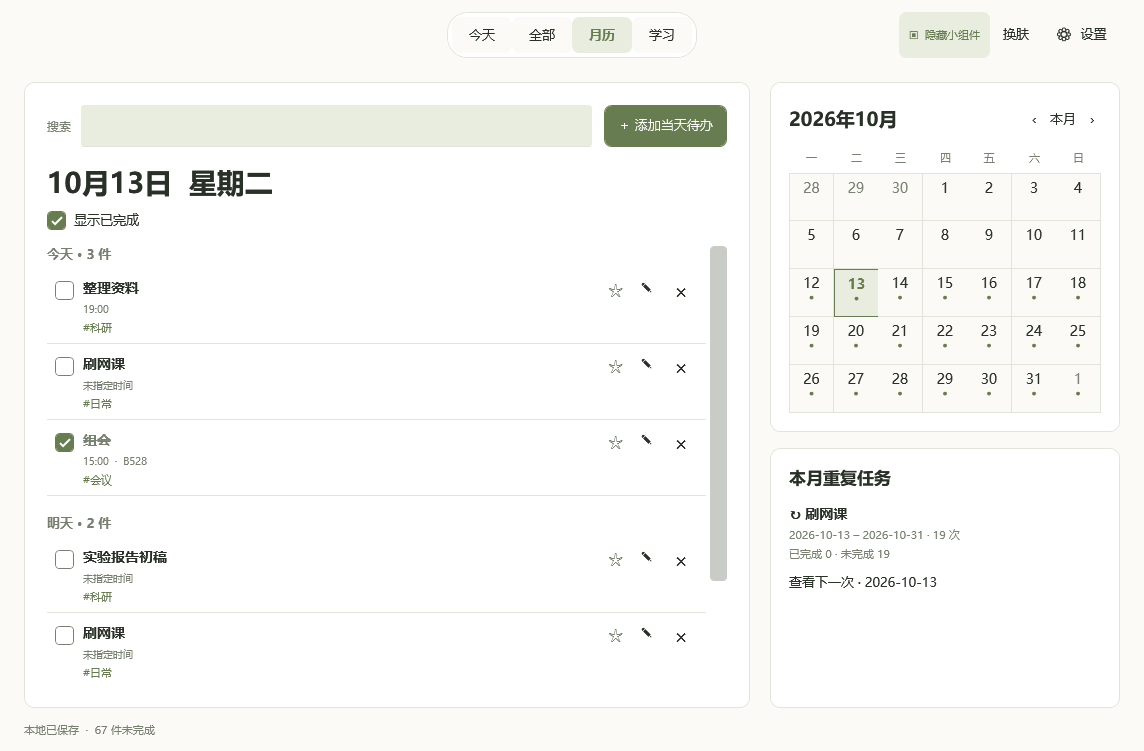
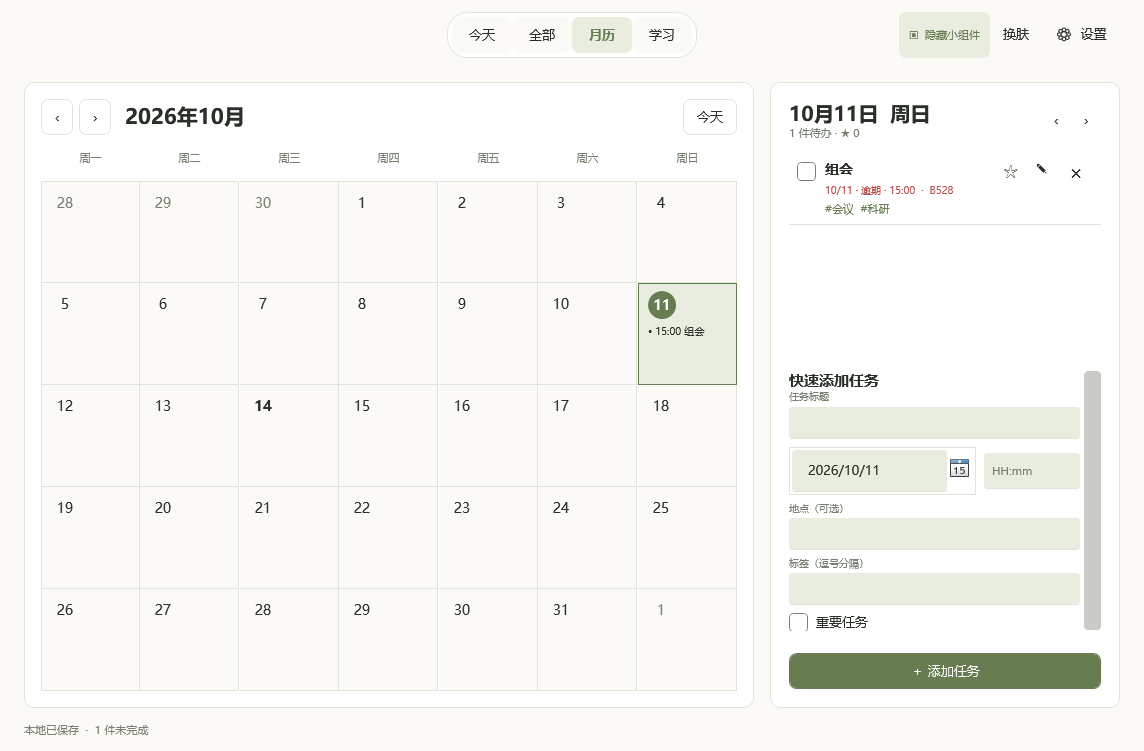
Restore large calendar and add day inspector quick entry in v2.2.1

diff --git a/src/MainWindow.cs b/src/MainWindow.cs
@@ -90,7 +90,7 @@ namespace DeskTodo
             if (page == "学习报告") { if (studyPeriod == null) studyPeriod = new StudyPeriodPanel(app); body.Children.Add(studyPeriod); studyPeriod.Refresh(true); }
             else if (page == "学习统计") { if (studyStats == null) studyStats = new StudyStatsPanel(app); body.Children.Add(studyStats); studyStats.Refresh(true); }
             else if (page == "番茄钟") { if (focusPanel == null) focusPanel = new FocusPanel(app); body.Children.Add(focusPanel); focusPanel.Refresh(true); }
-            else if (page == "月历" || page == "今天") RenderCalendar(); else RenderList();
+            else if (page == "月历") RenderCalendar(); else if (page == "今天") RenderAgenda(); else RenderList();
             int pending = app.Store.State.Items.Count(i => !i.Done);
             status.Text = page == "番茄钟" || page == "学习统计" || page == "学习报告" ? "学习记录保存在本机  ·  暂停时间不计入" : "本地已保存  ·  " + pending + " 件未完成" + (app.CanUndo ? "  ·  可撤销最近一次删除" : "");
         }
@@ -99,6 +99,46 @@ namespace DeskTodo
             var b = Ui.Button(text, action); b.Padding = new Thickness(10, 8, 10, 8); if (width > 0) b.Width = width; b.Margin = new Thickness(5, 0, 0, 0); tools.Children.Add(b);
         }
         void RenderCalendar()
+        {
+            body.ColumnDefinitions.Add(new ColumnDefinition()); body.ColumnDefinitions.Add(new ColumnDefinition { Width = new GridLength(350) });
+            var calendar = new Grid(); calendar.RowDefinitions.Add(new RowDefinition { Height = GridLength.Auto }); calendar.RowDefinitions.Add(new RowDefinition { Height = new GridLength(30) }); calendar.RowDefinitions.Add(new RowDefinition());
+            var monthBar = new DockPanel { Margin = new Thickness(0, 0, 0, 16) }; var today = Ui.Button("今天", () => SelectDay(DateTime.Today)); DockPanel.SetDock(today, Dock.Right); monthBar.Children.Add(today);
+            var monthControls = new StackPanel { Orientation = Orientation.Horizontal }; monthControls.Children.Add(Ui.Button("‹", () => SelectDay(Month.AddMonths(-1)))); var nextMonth = Ui.Button("›", () => SelectDay(Month.AddMonths(1))); nextMonth.Margin = new Thickness(6, 0, 14, 0); monthControls.Children.Add(nextMonth); var month = Ui.Text(Month.ToString("yyyy年M月"), 21, "Text", true); month.VerticalAlignment = VerticalAlignment.Center; monthControls.Children.Add(month); monthBar.Children.Add(monthControls); calendar.Children.Add(monthBar);
+            var weekdays = new UniformGrid { Rows = 1, Columns = 7 }; foreach (string name in new[] { "周一", "周二", "周三", "周四", "周五", "周六", "周日" }) { var label = Ui.Text(name, 11, "Muted"); label.TextAlignment = TextAlignment.Center; weekdays.Children.Add(label); } Grid.SetRow(weekdays, 1); calendar.Children.Add(weekdays);
+            var start = Dates.GridStart(Month); int cells = (int)Math.Ceiling(((Month - start).Days + DateTime.DaysInMonth(Month.Year, Month.Month)) / 7.0) * 7; CalendarCellCount = cells;
+            var days = new UniformGrid { Columns = 7, Rows = cells / 7 }; Grid.SetRow(days, 2); calendar.Children.Add(days);
+            for (int n = 0; n < cells; n++)
+            {
+                var date = start.AddDays(n); bool active = date == selected, current = date.Month == Month.Month;
+                var content = new StackPanel(); var number = Ui.Text(date.Day.ToString(), 14, active ? "AccentInk" : current ? "Text" : "Muted", active || date == DateTime.Today); number.TextAlignment = TextAlignment.Center; number.VerticalAlignment = VerticalAlignment.Center;
+                var badge = new Border { Child = number, Width = 28, Height = 28, CornerRadius = new CornerRadius(14), HorizontalAlignment = HorizontalAlignment.Left, Margin = new Thickness(0, 0, 0, 6) }; if (active) badge.SetResourceReference(Border.BackgroundProperty, "Accent"); content.Children.Add(badge);
+                var items = app.Store.State.Items.Where(i => i.Date == Dates.Key(date)).OrderBy(i => i.Done).ThenByDescending(i => i.Important).ThenBy(i => i.Time ?? "99:99").ToList();
+                foreach (var item in items.Take(2)) { var text = Ui.Text((item.Done ? "✓ " : item.SeriesId != null ? "↻ " : "• ") + (item.Time == null ? "" : item.Time + " ") + item.Title, 10, item.Done || !current ? "Muted" : "Text"); text.TextWrapping = TextWrapping.NoWrap; text.TextTrimming = TextTrimming.CharacterEllipsis; if (item.Done) text.TextDecorations = TextDecorations.Strikethrough; content.Children.Add(text); }
+                if (items.Count > 2) content.Children.Add(Ui.Text("另有 " + (items.Count - 2) + " 件", 9, "Muted"));
+                var day = Ui.Button("", () => SelectDay(date), "CalendarDay"); day.Content = content; day.Padding = new Thickness(9, 7, 4, 4); day.MinHeight = 0; day.BorderThickness = active ? new Thickness(1) : new Thickness(n % 7 == 0 ? 1 : 0, n < 7 ? 1 : 0, 1, 1); day.SetResourceReference(Button.BackgroundProperty, active ? "Soft" : "MainCanvas"); day.SetResourceReference(Button.BorderBrushProperty, active ? "Accent" : "Line"); System.Windows.Automation.AutomationProperties.SetName(day, date.ToString("yyyy年M月d日") + "，" + items.Count + " 件待办"); days.Children.Add(day);
+            }
+            var calendarCard = Ui.Card(calendar, new Thickness(16)); calendarCard.Margin = new Thickness(0, 0, 16, 0); body.Children.Add(calendarCard);
+            var detail = new DockPanel(); var title = new DockPanel { Margin = new Thickness(0, 0, 0, 12) }; var dateControls = new StackPanel { Orientation = Orientation.Horizontal }; dateControls.Children.Add(Ui.Button("‹", () => SelectDay(selected.AddDays(-1)), "Quiet")); dateControls.Children.Add(Ui.Button("›", () => SelectDay(selected.AddDays(1)), "Quiet")); DockPanel.SetDock(dateControls, Dock.Right); title.Children.Add(dateControls); var labelDate = new StackPanel(); labelDate.Children.Add(Ui.Text(selected.ToString("M月d日  ddd"), 20, "Text", true)); var selectedItems = app.Store.State.Items.Where(i => i.Date == Dates.Key(selected)).OrderBy(i => i.Done).ThenByDescending(i => i.Important).ThenBy(i => i.Time ?? "99:99").ToList(); labelDate.Children.Add(Ui.Text(selectedItems.Count + " 件待办 · ★ " + selectedItems.Count(i => i.Important), 11, "Muted")); title.Children.Add(labelDate); DockPanel.SetDock(title, Dock.Top); detail.Children.Add(title);
+            var quickPane = new DockPanel { Margin = new Thickness(0, 16, 0, 0) }; DockPanel.SetDock(quickPane, Dock.Bottom); detail.Children.Add(quickPane); var actions = new StackPanel(); DockPanel.SetDock(actions, Dock.Bottom); quickPane.Children.Add(actions); var quick = new StackPanel(); var quickViewport = Ui.Scroll(quick); quickViewport.MaxHeight = 260; quickPane.Children.Add(quickViewport); quick.Children.Add(Ui.Text("快速添加任务", 15, "Text", true)); quick.Children.Add(Ui.Text("任务标题", 10, "Muted"));
+            var taskTitle = new TextBox { MaxLength = 200, Height = 32, Padding = new Thickness(8, 3, 8, 3), Margin = new Thickness(0, 4, 0, 8), ToolTip = "任务标题（必填）" }; System.Windows.Automation.AutomationProperties.SetName(taskTitle, "快速待办标题"); quick.Children.Add(taskTitle);
+            var row = new Grid(); row.ColumnDefinitions.Add(new ColumnDefinition()); row.ColumnDefinitions.Add(new ColumnDefinition { Width = new GridLength(96) });
+            var datePicker = new DatePicker { SelectedDate = selected, Padding = new Thickness(2), FirstDayOfWeek = DayOfWeek.Monday, Margin = new Thickness(0, 0, 8, 0) }; System.Windows.Automation.AutomationProperties.SetName(datePicker, "快速待办日期"); row.Children.Add(datePicker);
+            var time = new TextBox { MaxLength = 5, Height = 36, Padding = new Thickness(8, 3, 8, 3), ToolTip = "时间，可选，格式 HH:mm" }; System.Windows.Automation.AutomationProperties.SetName(time, "快速待办时间"); var timeBox = new Grid(); timeBox.Children.Add(time); var timeHint = Ui.Text("HH:mm", 11, "Muted"); timeHint.IsHitTestVisible = false; timeHint.VerticalAlignment = VerticalAlignment.Center; timeHint.Margin = new Thickness(8, 0, 0, 0); timeBox.Children.Add(timeHint); time.TextChanged += (s, e) => timeHint.Visibility = time.Text.Length == 0 ? Visibility.Visible : Visibility.Collapsed; Grid.SetColumn(timeBox, 1); row.Children.Add(timeBox); quick.Children.Add(row);
+            var locationLabel = Ui.Text("地点（可选）", 10, "Muted"); locationLabel.Margin = new Thickness(0, 7, 0, 3); quick.Children.Add(locationLabel); var location = new TextBox { MaxLength = 200 }; System.Windows.Automation.AutomationProperties.SetName(location, "快速待办地点"); quick.Children.Add(location);
+            var tagLabel = Ui.Text("标签（逗号分隔）", 10, "Muted"); tagLabel.Margin = new Thickness(0, 7, 0, 3); quick.Children.Add(tagLabel); var tags = new TextBox { MaxLength = 220 }; System.Windows.Automation.AutomationProperties.SetName(tags, "快速待办标签"); quick.Children.Add(tags);
+            location.Height = tags.Height = 32; location.Padding = tags.Padding = new Thickness(8, 3, 8, 3);
+            var important = new CheckBox { Content = "重要任务", Margin = new Thickness(0, 8, 0, 0) }; quick.Children.Add(important); var error = Ui.Text("", 11, "Danger"); actions.Children.Add(error);
+            var save = Ui.Button("＋ 添加任务", () =>
+            {
+                var item = new TodoItem { Id = Guid.NewGuid().ToString("N"), Title = taskTitle.Text.Trim(), Date = datePicker.SelectedDate.HasValue ? Dates.Key(datePicker.SelectedDate.Value) : null, Time = String.IsNullOrWhiteSpace(time.Text) ? null : time.Text.Trim(), Location = String.IsNullOrWhiteSpace(location.Text) ? null : location.Text.Trim(), Tags = TodoSearch.ParseTags(tags.Text), Important = important.IsChecked == true, CreatedUtc = DateTime.UtcNow.ToString("o") };
+                try { if (!datePicker.SelectedDate.HasValue) throw new InvalidOperationException("请选择日期。"); new TodoState { Items = new List<TodoItem> { item } }.Validate(); }
+                catch (Exception ex) { error.Text = ex.Message; return; }
+                app.SaveTodo(item, null, null);
+            }, "Primary"); save.Margin = new Thickness(0, 8, 0, 0); actions.Children.Add(save); if (app.CanUndo) actions.Children.Add(Ui.Button("撤销删除", app.UndoDelete, "Quiet"));
+            var list = new StackPanel(); if (selectedItems.Count == 0) Ui.Empty(list, "这一天还没有安排", "在下方添加一件事"); foreach (var item in selectedItems) list.Children.Add(Ui.TaskRow(app, item, false, true)); detail.Children.Add(Ui.Scroll(list));
+            var detailCard = Ui.Card(detail, new Thickness(18)); Grid.SetColumn(detailCard, 1); body.Children.Add(detailCard);
+        }
+        void RenderAgenda()
         {
             body.ColumnDefinitions.Add(new ColumnDefinition()); body.ColumnDefinitions.Add(new ColumnDefinition { Width = new GridLength(350) });
             var agenda = new DockPanel(); var agendaHeader = new StackPanel(); DockPanel.SetDock(agendaHeader, Dock.Top); agenda.Children.Add(agendaHeader);

diff --git a/src/UiSmoke.cs b/src/UiSmoke.cs
@@ -123,7 +123,7 @@ namespace DeskTodo
                     dc.DrawGeometry(new SolidColorBrush(Color.FromRgb(63, 111, 91)), null, Geometry.Parse("M0,650 L280,430 500,650 680,420 860,610 1200,450 1200,800 0,800 Z"));
                 }
                 var bitmap = new RenderTargetBitmap(1200, 800, 96, 96, PixelFormats.Pbgra32); bitmap.Render(drawing); var encoder = new PngBitmapEncoder(); encoder.Frames.Add(BitmapFrame.Create(bitmap)); using (var file = File.Create(picture)) encoder.Save(file); app.ImportBackground(picture); app.SetBackgroundShade(0.4);
-                app.Main.SelectPage("月历"); app.Main.SelectDay(today); app.Main.UpdateLayout();
+                app.Main.SelectPage("今天"); app.Main.SelectDay(today); app.Main.UpdateLayout();
                 Check(app.Main.CalendarCellCount == 35 || app.Main.CalendarCellCount == 42, "small calendar retains full weeks");
                 Check(Controls<TextBlock>(app.Main).Any(t => t.Text == "本月重复任务") && Controls<TextBlock>(app.Main).Any(t => t.Text == "明天 · 2 件"), "agenda displays following day and repeat summary");
                 Capture(app.Main, Path.Combine(root, "c-calendar-warm.png"));
@@ -133,7 +133,7 @@ namespace DeskTodo
                 Check(app.Store.State.Items.First(i => i.Title == "组会").Done, "compact task completion persists through refresh");
                 search = Controls<TextBox>(app.Main).First(t => AutomationProperties.GetName(t) == "事项搜索"); search.Text = "";
                 var nextDay = today.AddDays(1); Controls<Button>(app.Main).First(b => AutomationProperties.GetName(b).StartsWith(nextDay.ToString("yyyy年M月d日") + "，")).RaiseEvent(new RoutedEventArgs(Button.ClickEvent)); app.Main.UpdateLayout();
-                Check(Controls<TextBlock>(app.Main).Any(t => t.Text == nextDay.ToString("M月d日  dddd")), "clicking small calendar changes selected agenda");
+                Check(Controls<DatePicker>(app.Main).First(p => AutomationProperties.GetName(p) == "快速待办日期").SelectedDate == nextDay, "clicking small calendar switches to selected monthly details");
                 app.Main.SelectPage("今天"); app.Main.UpdateLayout(); Check(Controls<TextBlock>(app.Main).Any(t => t.Text == "逾期 · 1 件"), "today retains overdue task access");
                 foreach (string skin in new[] { "light", "dark", "warm" }) { app.ChangeTheme(skin); app.Main.UpdateLayout(); Capture(app.Main, Path.Combine(root, "c-today-" + skin + ".png")); }
                 app.Main.Width = 960; app.Main.Height = 650; app.Main.UpdateLayout(); Capture(app.Main, Path.Combine(root, "c-calendar-small.png"));
@@ -195,7 +195,16 @@ namespace DeskTodo
         {
             try
             {
-                app.Main.SelectDay(new DateTime(2026, 10, 11));
+                app.Main.SelectDay(new DateTime(2026, 10, 11)); app.Main.UpdateLayout();
+                var quickTitle = Controls<TextBox>(app.Main).First(t => AutomationProperties.GetName(t) == "快速待办标题"); quickTitle.Text = "组会";
+                Controls<TextBox>(app.Main).First(t => AutomationProperties.GetName(t) == "快速待办时间").Text = "15:00";
+                Controls<TextBox>(app.Main).First(t => AutomationProperties.GetName(t) == "快速待办地点").Text = "B528";
+                Controls<TextBox>(app.Main).First(t => AutomationProperties.GetName(t) == "快速待办标签").Text = "会议，科研";
+                Controls<Button>(app.Main).First(b => (b.Content as string) == "＋ 添加任务").RaiseEvent(new RoutedEventArgs(Button.ClickEvent)); app.Main.UpdateLayout();
+                Check(app.Store.State.Items.Any(i => i.Title == "组会" && i.Date == "2026-10-11" && i.Time == "15:00" && i.Location == "B528" && i.Tags.Count == 2), "quick addition saves title date time location and tags");
+                Controls<TextBox>(app.Main).First(t => AutomationProperties.GetName(t) == "快速待办标题").Text = "错误时间"; Controls<TextBox>(app.Main).First(t => AutomationProperties.GetName(t) == "快速待办时间").Text = "25:00";
+                Controls<Button>(app.Main).First(b => (b.Content as string) == "＋ 添加任务").RaiseEvent(new RoutedEventArgs(Button.ClickEvent));
+                Check(!app.Store.State.Items.Any(i => i.Title == "错误时间"), "invalid quick time is refused without saving"); app.Main.Refresh(); app.Main.UpdateLayout();
                 foreach (string theme in new[] { "warm", "light", "dark" })
                 {
                     app.ChangeTheme(theme); app.Main.UpdateLayout();
@@ -206,6 +215,9 @@ namespace DeskTodo
                     Check(days.All(b => b.BorderThickness.Right == 1 && b.BorderThickness.Bottom == 1), "right and bottom edges preserved " + theme);
                     Capture(app.Main, Path.Combine(root, "calendar-" + theme + ".png"));
                 }
+                var nextDay = new DateTime(2026, 10, 12); Controls<Button>(app.Main).First(b => AutomationProperties.GetName(b).StartsWith(nextDay.ToString("yyyy年M月d日") + "，")).RaiseEvent(new RoutedEventArgs(Button.ClickEvent)); app.Main.UpdateLayout();
+                Check(Controls<DatePicker>(app.Main).First(p => AutomationProperties.GetName(p) == "快速待办日期").SelectedDate == nextDay, "calendar selection synchronizes quick addition date");
+                app.Main.SelectDay(new DateTime(2026, 10, 11)); app.Main.Width = 960; app.Main.Height = 650; app.Main.UpdateLayout(); Capture(app.Main, Path.Combine(root, "calendar-small.png"));
                 File.WriteAllText(Path.Combine(root, "ui-report.txt"), "CALENDAR PASS: " + passed); app.Exit();
             }
             catch (Exception ex) { File.WriteAllText(Path.Combine(root, "ui-report.txt"), ex.ToString()); app.Exit(); Environment.ExitCode = 1; }

diff --git a/src/App.cs b/src/App.cs
@@ -16,7 +16,7 @@ using Forms = System.Windows.Forms;
 
 [assembly: AssemblyTitle("拾序")]
 [assembly: AssemblyProduct("拾序 · 桌面待办")]
-[assembly: AssemblyVersion("2.2.0.0")]
+[assembly: AssemblyVersion("2.2.1.0")]
 
 namespace DeskTodo
 {

diff --git a/docs/使用说明.md b/docs/使用说明.md
@@ -1,5 +1,7 @@
 # 拾序使用说明
 
+v2.2.1：月历左侧恢复整月大网格，右侧显示所选日期的任务与快速添加。填写标题、日期及可选时间（HH:mm）、地点、标签和重要标记后，点击“添加任务”；无效输入不会保存。更详细的提醒、重复和备注设置可在编辑窗口操作。今天页和番茄钟继续使用C版。
+
 ## 自定义背景（v2.1.0）
 
 在“换肤”菜单点击“选择背景图片…”，选择本地 PNG/JPG/BMP 图片，最大32MB。图片保持比例居中填满主窗口，边缘可能裁切；副本保存在设置文件旁的 `Backgrounds/` 中，原图移动后仍可使用。
